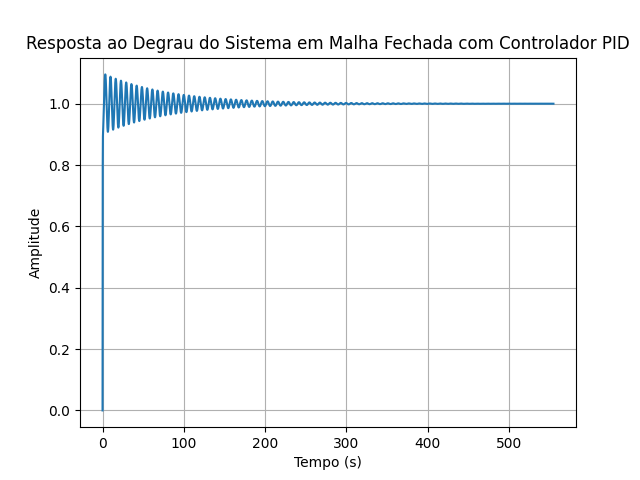
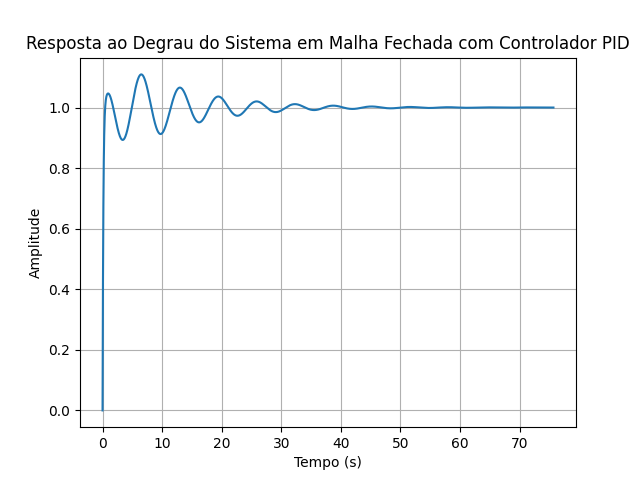
fixing push

diff --git a/src/main.py b/src/main.py
@@ -1,13 +1,11 @@
 import control as ctrl
 from genetic_algorithm import GeneticAlgorithm
 from pid_controller import PIDController
-import matplotlib.pyplot as plt
-from matplotlib.animation import FuncAnimation
-from PIL import Image
+from visualization import Visualization
 
 def main():
-    numerador = [1]
-    denominador = [1, 1, 1]
+    numerador = [1, 1, 1]
+    denominador = [1, 1, 1, 1, 1]
     sistema = ctrl.TransferFunction(numerador, denominador)
     
     ga = GeneticAlgorithm(sistema)
@@ -19,22 +17,8 @@ def main():
     pid_controller = PIDController(Kp, Ki, Kd, sistema)
 
     # Criar a animação
-    fig, ax = plt.subplots()
-    img = None
-
-    def update(i):
-        nonlocal img
-        buf = imagens[i]
-        buf.seek(0)
-        image = Image.open(buf)
-        if img is None:
-            img = ax.imshow(image)
-        else:
-            img.set_data(image)
-        return [img]
-
-    ani = FuncAnimation(fig, update, frames=len(imagens), blit=True)
-    ani.save('evolucao_pid.gif', writer='imagemagick')
+    viz = Visualization(imagens)
+    viz.create_animation('evolucao_pid.gif')
 
     # Plotar a resposta final
     plot_image = pid_controller.plot()

diff --git a/src/visualization.py b/src/visualization.py
@@ -1,3 +1,25 @@
 import matplotlib.pyplot as plt
-from pid_controller import PIDController
+from matplotlib.animation import FuncAnimation
+from PIL import Image
 
+class Visualization:
+    def __init__(self, imagens):
+        self.imagens = imagens
+
+    def create_animation(self, output_path):
+        fig, ax = plt.subplots()
+        img = None
+
+        def update(i):
+            nonlocal img
+            buf = self.imagens[i]
+            buf.seek(0)
+            image = Image.open(buf)
+            if img is None:
+                img = ax.imshow(image)
+            else:
+                img.set_data(image)
+            return [img]
+
+        ani = FuncAnimation(fig, update, frames=len(self.imagens), blit=True)
+        ani.save(output_path, writer='pillow')
